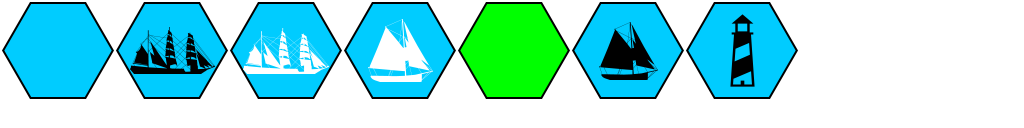
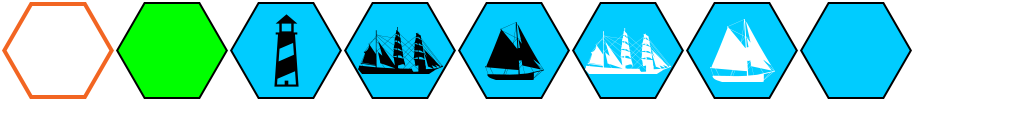
Sélection plus marque de sélection ok

diff --git a/core/src/fr/lesprogbretons/seawar/screen/SeaWarMapScreen.java b/core/src/fr/lesprogbretons/seawar/screen/SeaWarMapScreen.java
@@ -31,23 +31,21 @@ import static fr.lesprogbretons.seawar.SeaWar.logger;
  */
 public class SeaWarMapScreen extends ScreenAdapter {
 
-//    private static final int WIDTH_MAP = 13;
-    private static final int WIDTH_MAP = 50;
-//    private static final int HEIGHT_MAP = 11;
-    private static final int HEIGHT_MAP = 50;
+    private static final int WIDTH_MAP = 13;
+    private static final int HEIGHT_MAP = 11;
 
     private TiledMap map;
-    private TiledMapTileLayer layer;
     private TiledMapTile[] tiles;
-//    private TiledMapTile[] tilesSelected;
 
     private OrthographicCamera camera;
     private MapOrthoCamController cameraController;
     private HexagonalTiledMapRenderer renderer;
     private TextureAtlas hexture;
 
-
+    //Sélection
     private TiledCoordinates selectedTile = new TiledCoordinates(0, 0);
+    private TiledCoordinates previousSelectedTile = new TiledCoordinates(0, 0);
+    private boolean isTileSelected = false;
 
     @Override
     public void show() {
@@ -69,7 +67,7 @@ public class SeaWarMapScreen extends ScreenAdapter {
         MapLayers layers = map.getLayers();
 
 
-        tiles = new TiledMapTile[7];
+        tiles = new TiledMapTile[8];
         tiles[0] = new StaticTiledMapTile(new TextureRegion(hexture.findRegion("hexblue")));
         tiles[1] = new StaticTiledMapTile(new TextureRegion(hexture.findRegion("hexgreen")));
         tiles[2] = new StaticTiledMapTile(new TextureRegion(hexture.findRegion("hexphare")));
@@ -77,9 +75,11 @@ public class SeaWarMapScreen extends ScreenAdapter {
         tiles[4] = new StaticTiledMapTile(new TextureRegion(hexture.findRegion("ship2")));
         tiles[5] = new StaticTiledMapTile(new TextureRegion(hexture.findRegion("ship3")));
         tiles[6] = new StaticTiledMapTile(new TextureRegion(hexture.findRegion("ship4")));
+        tiles[7] = new StaticTiledMapTile(new TextureRegion(hexture.findRegion("select")));
 
         for (int l = 0; l < 1; l++) {
-            layer = new TiledMapTileLayer(WIDTH_MAP, HEIGHT_MAP, 112, 97);
+            TiledMapTileLayer layer = new TiledMapTileLayer(WIDTH_MAP, HEIGHT_MAP, 112, 97);
+            layer.setName("map");
             for (int y = 0; y < HEIGHT_MAP; y++) {
                 for (int x = 0; x < WIDTH_MAP; x++) {
                     int id = ThreadLocalRandom.current().nextInt(6);
@@ -90,6 +90,10 @@ public class SeaWarMapScreen extends ScreenAdapter {
             }
             layers.add(layer);
         }
+
+        TiledMapTileLayer layerSelect = new TiledMapTileLayer(WIDTH_MAP, HEIGHT_MAP, 112, 97);
+        layerSelect.setName("select");
+        layers.add(layerSelect);
 
         renderer = new HexagonalTiledMapRenderer(map);
 
@@ -115,18 +119,30 @@ public class SeaWarMapScreen extends ScreenAdapter {
         renderer.setView(camera);
         renderer.render();
         logger.debug("Rect | " + renderer.getViewBounds().toString() + " Pos : " + camera.position.toString());
-//        if (cameraController.clicked) {
-//            TiledCoordinates coords = getSelectedHexagon(cameraController.touchX, cameraController.touchY);
-//            if (coords.row >= 0 && coords.row < 11 && coords.column >= 0 && coords.column < 13) {
-//                if (!coords.equals(selectedTile)) {
-////                    invertSelection(selectedTile, tilesSelected, tiles);
-//                }
-////                invertSelection(coords, tiles, tilesSelected);
-//                selectedTile = coords;
-//            }
-//            //Le click est consomé
-//            cameraController.clicked = false;
-//        }
+
+        if (cameraController.clicked) {
+            getSelectedHexagon(cameraController.touchX, cameraController.touchY);
+            if (selectedTile.row >= 0 && selectedTile.row < HEIGHT_MAP
+                    && selectedTile.column >= 0 && selectedTile.column < WIDTH_MAP) {
+                //Selectionner le bon layer
+                TiledMapTileLayer layer = (TiledMapTileLayer) map.getLayers().get("select");
+
+                // Supprimer la marque de selection de la tile précédente
+                if (isTileSelected) {
+                    layer.setCell(previousSelectedTile.column, previousSelectedTile.row, null);
+                    isTileSelected = false;
+                }
+                //Mettre la tile de selection
+                Cell selected = new Cell();
+                selected.setTile(tiles[7]);
+                layer.setCell(selectedTile.column, selectedTile.row, selected);
+
+                previousSelectedTile.setCoords(selectedTile);
+                isTileSelected = true;
+            }
+            //Le click est consomé
+            cameraController.clicked = false;
+        }
     }
 
     @Override
@@ -134,13 +150,6 @@ public class SeaWarMapScreen extends ScreenAdapter {
         renderer.dispose();
         hexture.dispose();
         map.dispose();
-    }
-
-    private void invertSelection(TiledCoordinates coords, TiledMapTile[] tiledSet, TiledMapTile[] tilesToSet) {
-        Cell c = layer.getCell(coords.column, coords.row);
-        if (c.getTile() == tiledSet[0]) c.setTile(tilesToSet[0]);
-        else if (c.getTile() == tiledSet[1]) c.setTile(tilesToSet[1]);
-        else if (c.getTile() == tiledSet[2]) c.setTile(tilesToSet[2]);
     }
 
     private void getSelectedHexagon(float x, float y) {

diff --git a/core/src/fr/lesprogbretons/seawar/utils/TiledCoordinates.java b/core/src/fr/lesprogbretons/seawar/utils/TiledCoordinates.java
@@ -8,4 +8,14 @@ public class TiledCoordinates {
         this.column = column;
         this.row = row;
     }
+
+    public void setCoords(TiledCoordinates coords) {
+        this.column = coords.column;
+        this.row = coords.row;
+    }
+
+    @Override
+    public boolean equals(Object obj) {
+        return (this.column == ((TiledCoordinates) obj).column && this.row == ((TiledCoordinates) obj).row);
+    }
 }
